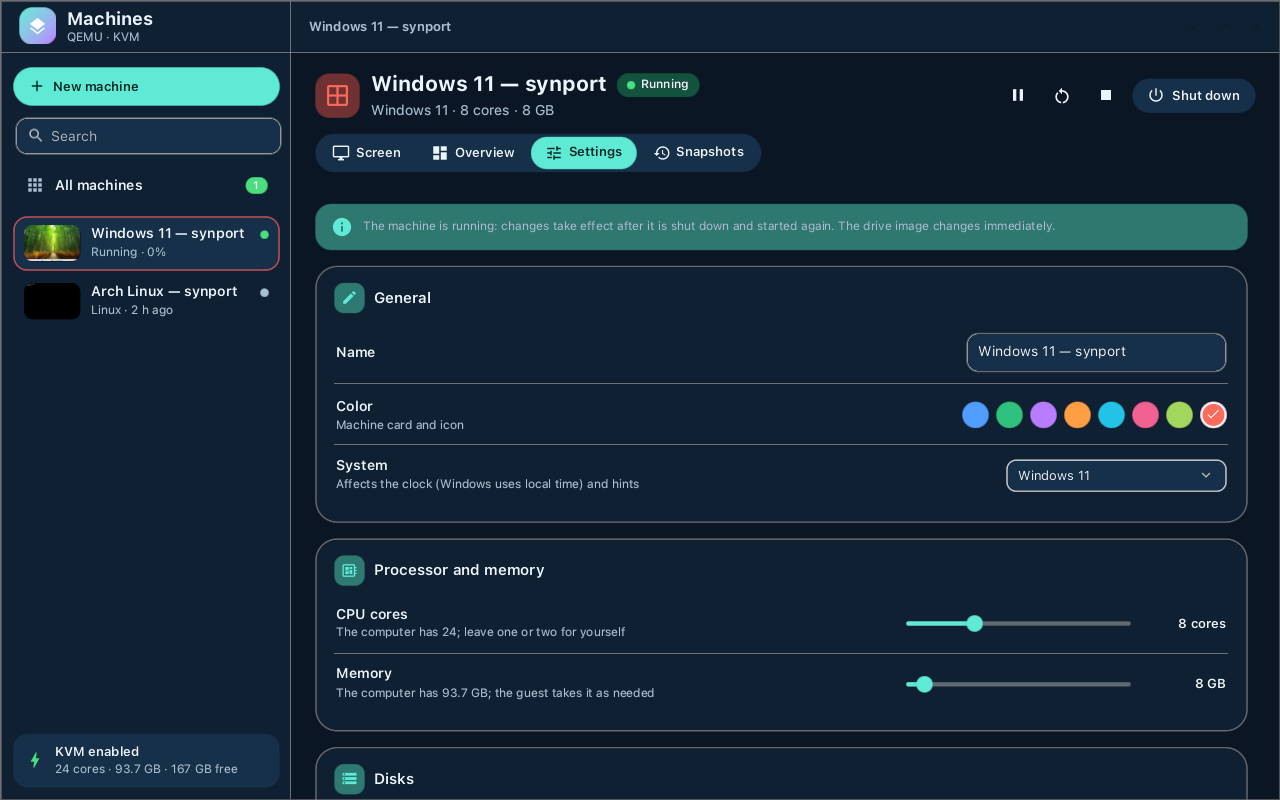
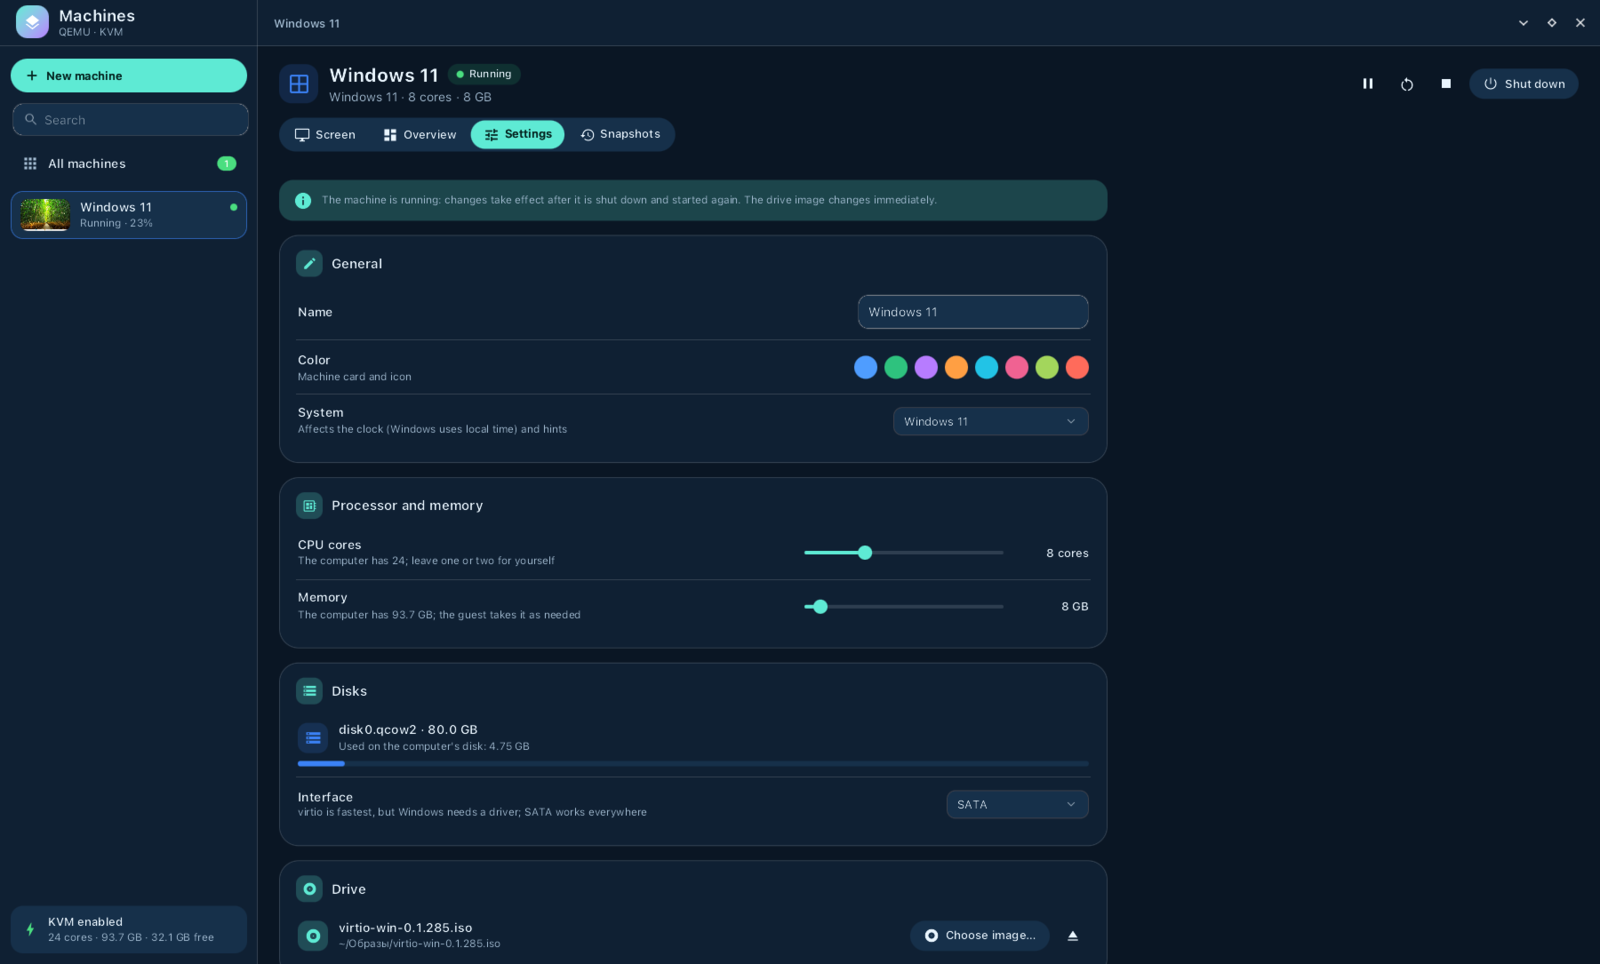
syn-vm: снимки для README с настоящим гостем (Windows 11 во вкладке «Экран», «Обзор», настройки, снимки состояния — en/ru, демо-набор машин), пункт про 3D-графику syn-gpu; пути в «Обзоре» и приводе — с «~» вместо домашнего каталога

diff --git a/crates/syn-vm/src/ui/settings.rs b/crates/syn-vm/src/ui/settings.rs
@@ -238,7 +238,7 @@ fn cdrom(st: St, vm: &Vm) -> W {
     let id2 = vm.id.clone();
     let name = if vm.cdrom.is_empty() { t!("Пусто") } else { parts::file_name(&vm.cdrom) };
     let missing = !vm.cdrom.is_empty() && !std::path::Path::new(&vm.cdrom).exists();
-    let hint = if missing { t!("Файл не найден: {p}", p = vm.cdrom) } else if vm.cdrom.is_empty() { t!("Вставьте образ установки или драйверов") } else { vm.cdrom.clone() };
+    let hint = if missing { t!("Файл не найден: {p}", p = vm.cdrom) } else if vm.cdrom.is_empty() { t!("Вставьте образ установки или драйверов") } else { parts::home_short(&vm.cdrom) };
     let mut acts = Row::new().gap(8.0).cross_axis_alignment(CrossAxisAlignment::Center).child(btn(icons::DISC, t!("Выбрать образ…"), "soft", move || {
         let id = id.clone();
         std::thread::spawn(move || {

diff --git a/crates/syn-vm/src/ui/overview.rs b/crates/syn-vm/src/ui/overview.rs
@@ -175,7 +175,8 @@ fn info(vm: &Vm) -> W {
         rows.push(parts::kv(t!("Общая папка"), vm.shared_dir.clone()));
     }
     rows.push(parts::kv(t!("Создана"), state::chrono_like(vm.created).replace('.', ":")));
-    rows.push(parts::kv(t!("Папка"), vm.dir().to_string_lossy().into_owned()));
+    // Домашний каталог — «~» (короче и без имени пользователя на снимках экрана).
+    rows.push(parts::kv(t!("Папка"), parts::home_short(&vm.dir().to_string_lossy())));
     parts::card(
         Column::new()
             .gap(10.0)

diff --git a/crates/syn-vm/src/ui/parts.rs b/crates/syn-vm/src/ui/parts.rs
@@ -348,6 +348,14 @@ pub fn ago(t: u64) -> String {
     }
 }
 
+/// Путь для показа: домашний каталог — «~» (короче и без имени пользователя на снимках).
+pub fn home_short(path: &str) -> String {
+    match std::env::var("HOME") {
+        Ok(h) if !h.is_empty() && path.starts_with(&format!("{h}/")) => format!("~{}", &path[h.len()..]),
+        _ => path.to_string(),
+    }
+}
+
 pub fn file_name(path: &str) -> String {
     std::path::Path::new(path).file_name().map(|n| n.to_string_lossy().into_owned()).unwrap_or_else(|| path.to_string())
 }

diff --git a/crates/syn-vm/README.ru.md b/crates/syn-vm/README.ru.md
@@ -6,7 +6,7 @@
 
 [English](README.md) · [Сайт](https://alexeyev.dev/ru/syndesktop/) · [AUR: syn-vm-bin](https://aur.archlinux.org/packages/syn-vm-bin) · [AUR: syn-vm-git](https://aur.archlinux.org/packages/syn-vm-git)
 
-![Обзор](docs/screenshots/overview-ru.png)
+![Windows 11 в окне syn-vm](docs/screenshots/screen-ru.png)
 
 </div>
 
@@ -15,6 +15,7 @@
 - **Мастер** — машина из ISO, импорт готового диска (qcow2/raw/img; переменные UEFI и TPM копируются) или пустая; заготовки для Linux, Windows 11/10, BSD, Android.
 - **Готово для Windows 11** — UEFI + Secure Boot, TPM 2.0 (swtpm), «Гостевые инструменты syn-vm» одной кнопкой: свой агент, свой драйвер virtio-serial и драйвер видеокарты syn-gpu (или по-старому virtio-win).
 - **Встроенный экран** — экран гостя прямо в окне, ввод, разрешение гостя под окно, буфер обмена с текстом и картинками в обе стороны; живые миниатюры в списке машин.
+- **3D-графика (syn-gpu)** — Vulkan и DirectX (через DXVK) в Windows-гостях считаются на видеокарте компьютера; видеокарта компьютера и видеопамять гостя выбираются в настройках; кадры игр — прямо в окно.
 - **Снимки** — создать, вернуть, удалить; USB-устройства после возврата переподключаются.
 - **Проброс устройств** — PCI (VFIO, возвращается компьютеру при выключении), USB **по физическому порту** (телефон, который уходит Android → fastboot → recovery, остаётся у гостя), устройства ввода, диски целиком, последовательные порты, TPM компьютера, звук PipeWire.
 - **Общие папки** — несколько у одной машины: virtiofs, 9p или SMB; в Windows подключаются дисками Z:, Y:…, в Linux — в /mnt/hostshare…
@@ -24,9 +25,13 @@
 - **MCP-сервер** — ИИ-агент управляет машинами: `claude mcp add syn-vm -- syn-vm --mcp`.
 - **14 языков** — как в системе или свой язык в настройках приложения.
 
-| Мастер | Настройки | Снимки |
-|---|---|---|
-| ![Мастер](docs/screenshots/wizard-ru.png) | ![Настройки](docs/screenshots/settings-ru.png) | ![Снимки](docs/screenshots/snapshots-ru.png) |
+| Обзор | Мастер |
+|---|---|
+| ![Обзор](docs/screenshots/overview-ru.png) | ![Мастер](docs/screenshots/wizard-ru.png) |
+
+| Настройки | Снимки |
+|---|---|
+| ![Настройки](docs/screenshots/settings-ru.png) | ![Снимки](docs/screenshots/snapshots-ru.png) |
 
 <!-- Видео: ссылка на YouTube — когда будет опубликовано.
 [![syn-vm за 2 минуты](docs/screenshots/video-thumb.png)](https://youtube.com/watch?v=…)

diff --git a/crates/syn-vm/README.md b/crates/syn-vm/README.md
@@ -6,7 +6,7 @@
 
 [Русский](README.ru.md) · [Website](https://alexeyev.dev/syndesktop/) · [AUR: syn-vm-bin](https://aur.archlinux.org/packages/syn-vm-bin) · [AUR: syn-vm-git](https://aur.archlinux.org/packages/syn-vm-git)
 
-![Overview](docs/screenshots/overview-en.png)
+![Windows 11 running in syn-vm](docs/screenshots/screen-en.png)
 
 </div>
 
@@ -15,6 +15,7 @@
 - **Wizard** — create a machine from an ISO, import an existing disk (qcow2/raw/img, UEFI variables and TPM are copied), or start empty; presets for Linux, Windows 11/10, BSD, Android.
 - **Windows 11 ready** — UEFI + Secure Boot, TPM 2.0 (swtpm), “syn-vm Guest Tools” in one click: its own agent, its own virtio-serial driver and the syn-gpu graphics driver (or virtio-win, as before).
 - **Built-in display** — the guest screen right in the window, input, guest resolution follows the window, two-way clipboard with text and images; live thumbnails in the machine list.
+- **3D graphics (syn-gpu)** — Vulkan and DirectX (through DXVK) in Windows guests rendered on the host GPU; pick the host graphics card and the guest's video memory in the settings; game frames go straight into the window.
 - **Snapshots** — create, restore and delete; USB devices are replugged after a restore.
 - **Device passthrough** — PCI (VFIO, returned to the host on shutdown), USB **by physical port** (a phone that goes Android → fastboot → recovery stays with the guest), input devices, whole disks, serial ports, host TPM, PipeWire audio.
 - **Shared folders** — several per machine: virtiofs, 9p or SMB; mapped as Z:, Y:… in Windows and mounted at /mnt/hostshare… in Linux.
@@ -24,9 +25,13 @@
 - **MCP server** — let an AI agent drive your VMs: `claude mcp add syn-vm -- syn-vm --mcp`.
 - **14 languages** — the UI follows the system or the language chosen in the app.
 
-| Wizard | Settings | Snapshots |
-|---|---|---|
-| ![Wizard](docs/screenshots/wizard-en.png) | ![Settings](docs/screenshots/settings-en.png) | ![Snapshots](docs/screenshots/snapshots-en.png) |
+| Overview | Wizard |
+|---|---|
+| ![Overview](docs/screenshots/overview-en.png) | ![Wizard](docs/screenshots/wizard-en.png) |
+
+| Settings | Snapshots |
+|---|---|
+| ![Settings](docs/screenshots/settings-en.png) | ![Snapshots](docs/screenshots/snapshots-en.png) |
 
 <!-- Video: replace with the YouTube link when it is published.
 [![syn-vm in 2 minutes](docs/screenshots/video-thumb.png)](https://youtube.com/watch?v=…)
